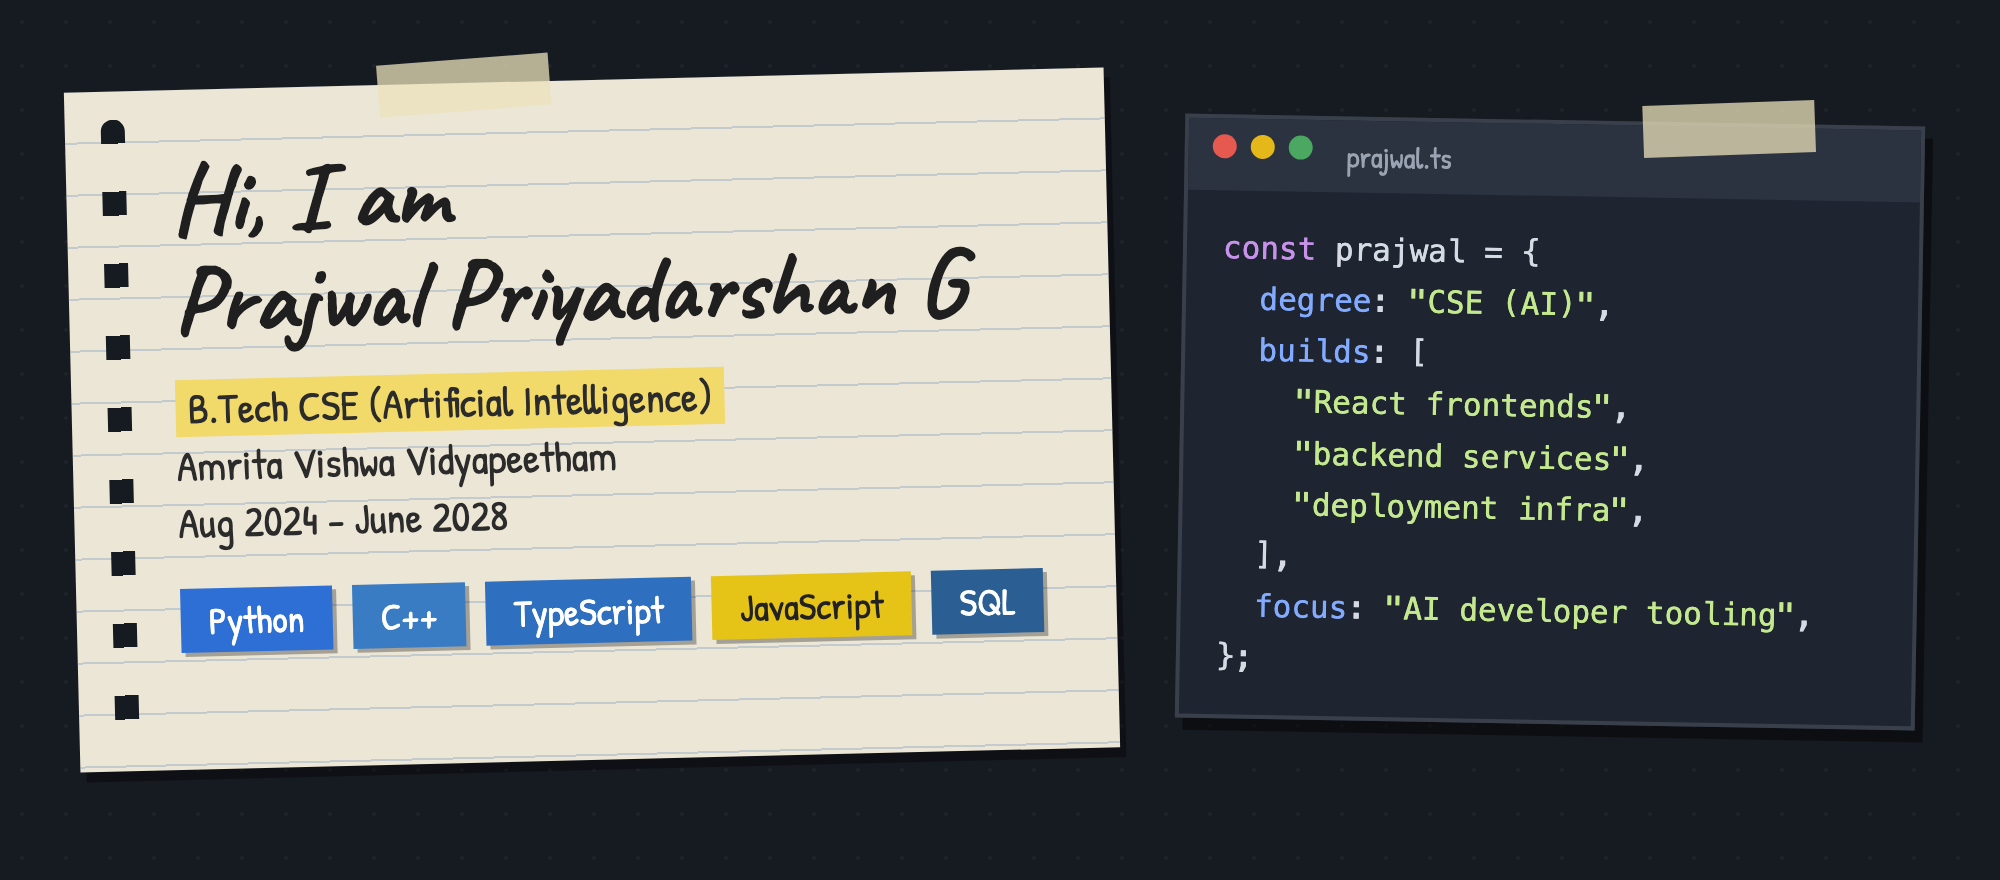
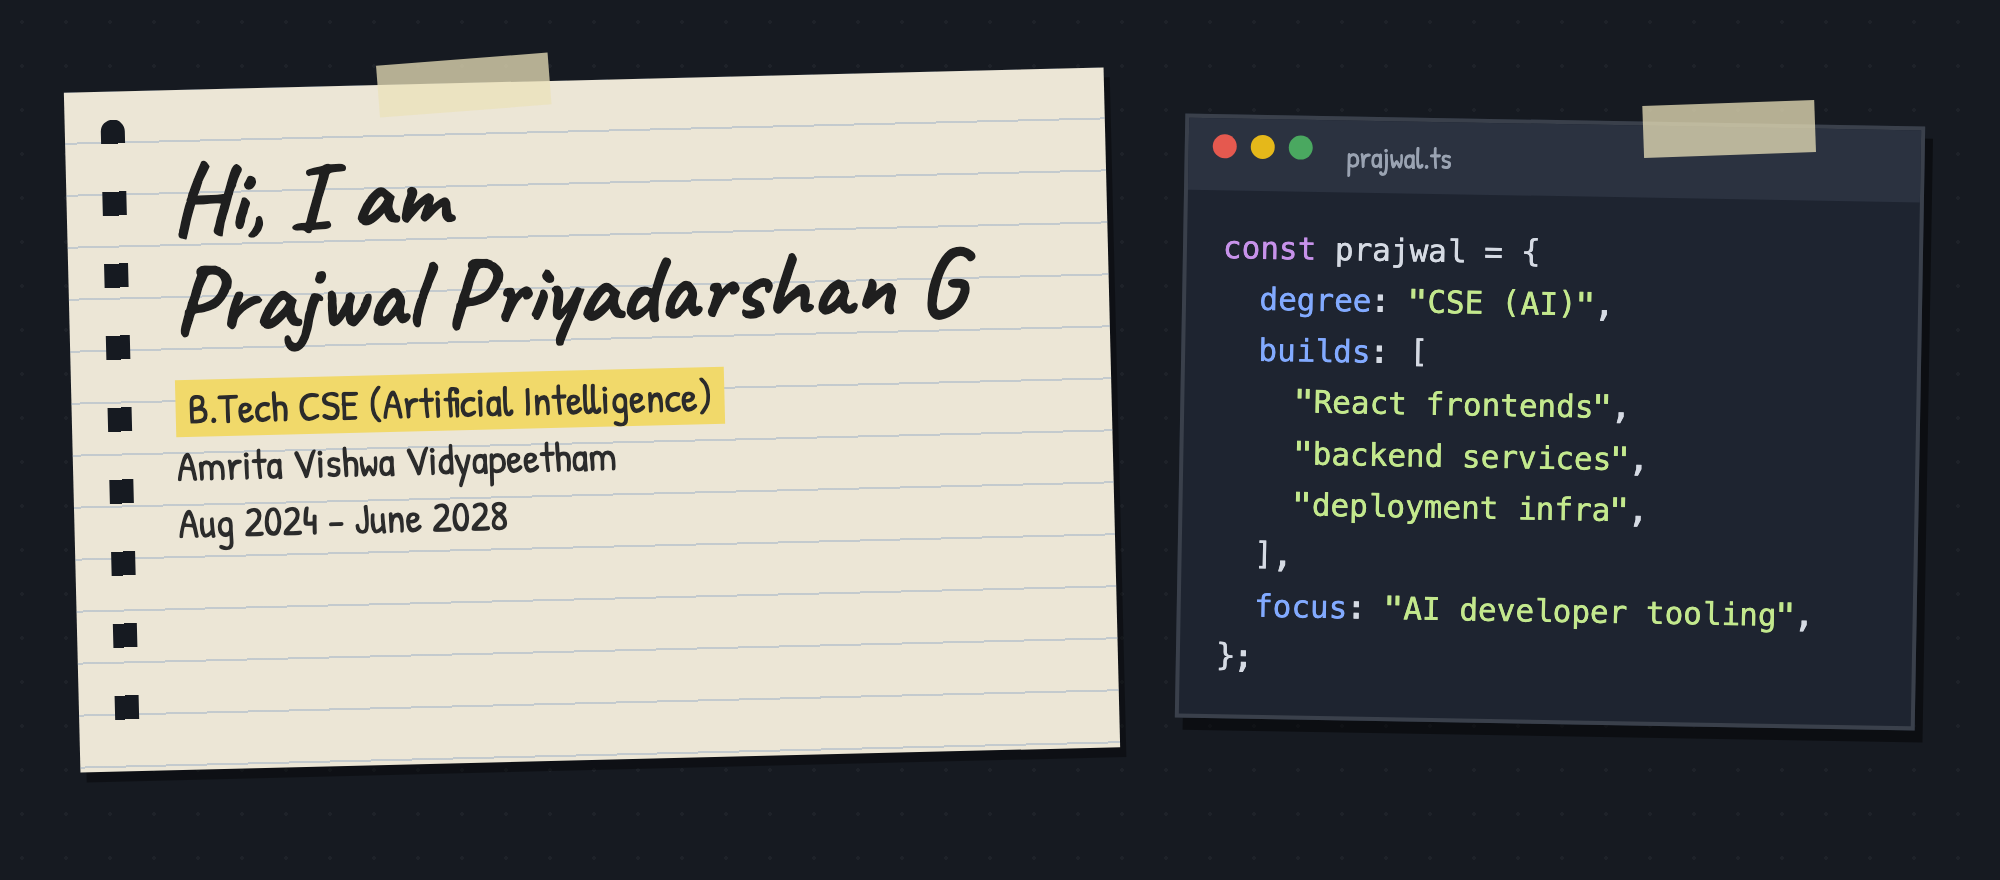
docs: remove about section and language chips from hero

Changed region(s): [[0.093, 0.6443, 0.527, 0.767]]

diff --git a/README.md b/README.md
@@ -2,8 +2,6 @@
 
 <img src="assets/hero.png" alt="Hi, I am Prajwal Priyadarshan G. B.Tech CSE (AI), Amrita Vishwa Vidyapeetham" width="100%">
 
-<img src="assets/about.png" alt="About me: end-to-end systems, foundations, AI tooling" width="100%">
-
 <img src="assets/ach.png" alt="Achievements" width="100%">
 
 <img src="assets/proj.png" alt="Projects: Sambhaash AI, RepoGuardian AI, StockSense AI" width="100%">
